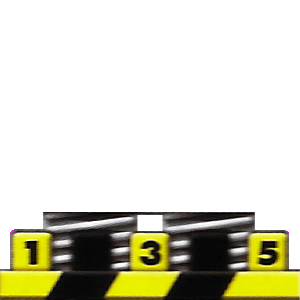
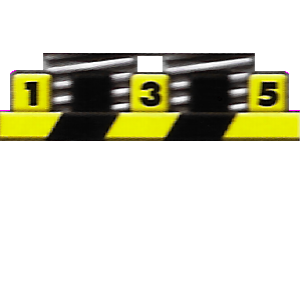
upgradecard classes and images, pushpanels fixed and deathtrap json corrected

diff --git a/src/main/java/Desperatedrosseln/Local/Controllers/MapController.java b/src/main/java/Desperatedrosseln/Local/Controllers/MapController.java
@@ -474,11 +474,11 @@ public class MapController {
         ImageView stackElement = null;
         PushPanel pushPanel = (PushPanel) boardElement;
         //change this if to something with register
-        if (pushPanel.getIsOnBoard().equals("2AA")) {
+        if (pushPanel.getRegisters().contains(1)) {
             Image pushPanel1Image =
                     new Image(getClass().getResource("/images/elements/pushPanel/pushPanel1.png").toString());
             stackElement = new ImageView(pushPanel1Image);
-        } else if (pushPanel.getIsOnBoard().equals("2A")) {
+        } else if (pushPanel.getRegisters().contains(2)) {
             Image pushPanel2Image =
                     new Image(getClass().getResource("/images/elements/pushPanel/pushPanel2.png").toString());
             stackElement = new ImageView(pushPanel2Image);

diff --git a/src/main/java/Desperatedrosseln/Json/utils/TileAdapter.java b/src/main/java/Desperatedrosseln/Json/utils/TileAdapter.java
@@ -74,7 +74,16 @@ public class TileAdapter extends TypeAdapter<BoardElement> {
             }
             out.endArray();
         }
-
+        // Write the "registers" field for PushPanel tiles
+        if (value instanceof PushPanel) {
+            PushPanel pushPanel = (PushPanel) value;
+            out.name("registers");
+            out.beginArray();
+            for (Integer pushPanelRegisters : pushPanel.getRegisters()){
+                out.value(pushPanelRegisters);
+            }
+            out.endArray();
+        }
 
 
         // Write the "speed" field for ConveyorBelt tiles

diff --git a/src/main/java/Desperatedrosseln/Local/Protocols/ConnectionUpdate.java b/src/main/java/Desperatedrosseln/Local/Protocols/ConnectionUpdate.java
@@ -1,0 +1,20 @@
+package Desperatedrosseln.Local.Protocols;
+
+public class ConnectionUpdate {
+
+    private int clientID;
+
+    private boolean isConnected;
+
+    public int getClientID() {
+        return clientID;
+    }
+
+    public boolean getIsConnected() {
+        return isConnected; //false
+    }
+
+    public ConnectionUpdate(){
+        //do something (kick, reconnect, etc.)
+    }
+}

diff --git a/src/main/java/Desperatedrosseln/Logic/Cards/Upgrade/AdminPrivilege.java b/src/main/java/Desperatedrosseln/Logic/Cards/Upgrade/AdminPrivilege.java
@@ -1,0 +1,12 @@
+package Desperatedrosseln.Logic.Cards.Upgrade;
+
+import Desperatedrosseln.Logic.Cards.*;
+
+public class AdminPrivilege extends UpgradeCard {
+    //passive UpgradeCard
+    @Override
+    public String toString() {
+        return "AdminPrivilege";
+    }
+}
+

diff --git a/src/main/java/Desperatedrosseln/Logic/Cards/Upgrade/SpamBlocker.java b/src/main/java/Desperatedrosseln/Logic/Cards/Upgrade/SpamBlocker.java
@@ -1,0 +1,11 @@
+package Desperatedrosseln.Logic.Cards.Upgrade;
+
+import Desperatedrosseln.Logic.Cards.*;
+
+public class SpamBlocker extends UpgradeCard {
+    //temporary UpgradeCard
+    @Override
+    public String toString() {
+        return "SpamBlocker";
+    }
+}

diff --git a/src/main/java/Desperatedrosseln/Logic/Cards/Upgrade/MemorySwap.java b/src/main/java/Desperatedrosseln/Logic/Cards/Upgrade/MemorySwap.java
@@ -1,0 +1,11 @@
+package Desperatedrosseln.Logic.Cards.Upgrade;
+
+import Desperatedrosseln.Logic.Cards.*;
+
+public class MemorySwap extends UpgradeCard {
+    //passive UpgradeCard
+    @Override
+    public String toString() {
+        return "MemorySwap";
+    }
+}

diff --git a/src/main/java/Desperatedrosseln/Logic/Cards/Upgrade/RearLaser.java b/src/main/java/Desperatedrosseln/Logic/Cards/Upgrade/RearLaser.java
@@ -1,0 +1,11 @@
+package Desperatedrosseln.Logic.Cards.Upgrade;
+
+import Desperatedrosseln.Logic.Cards.*;
+
+public class RearLaser extends UpgradeCard {
+    //passive UpgradeCard
+    @Override
+    public String toString() {
+        return "RearLaser";
+    }
+}
